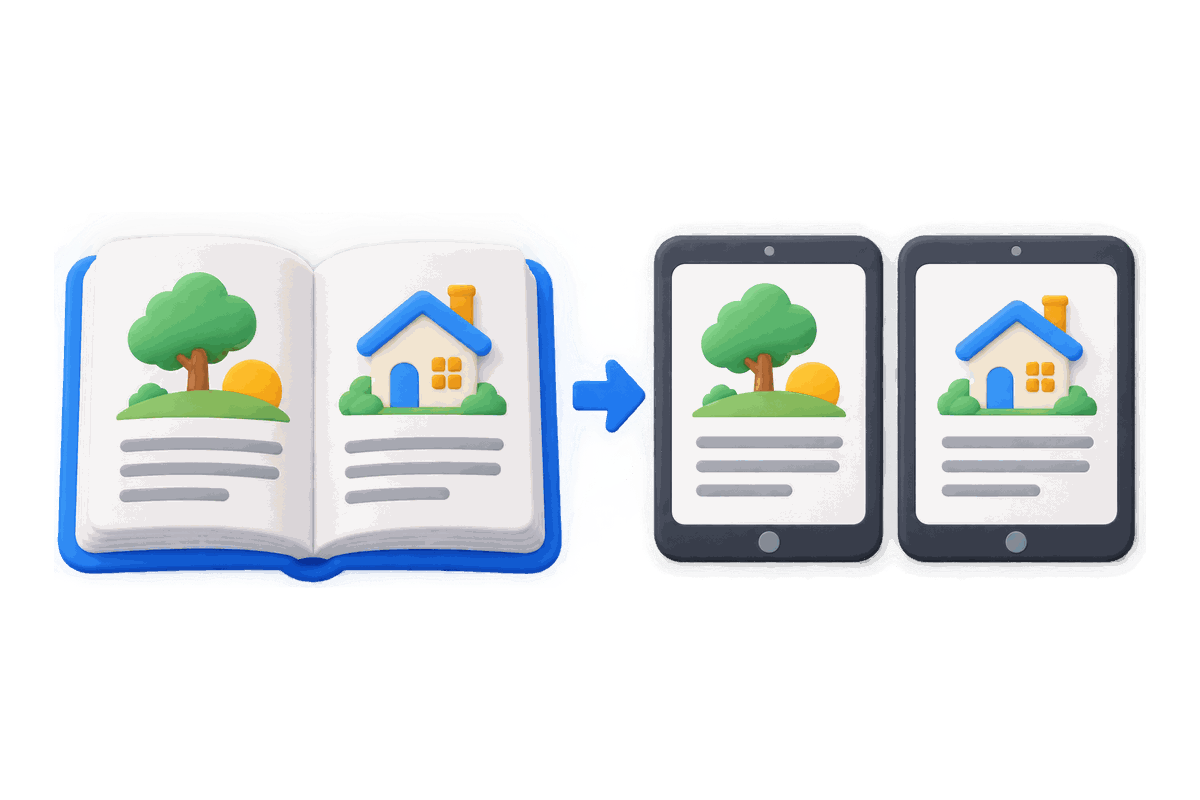
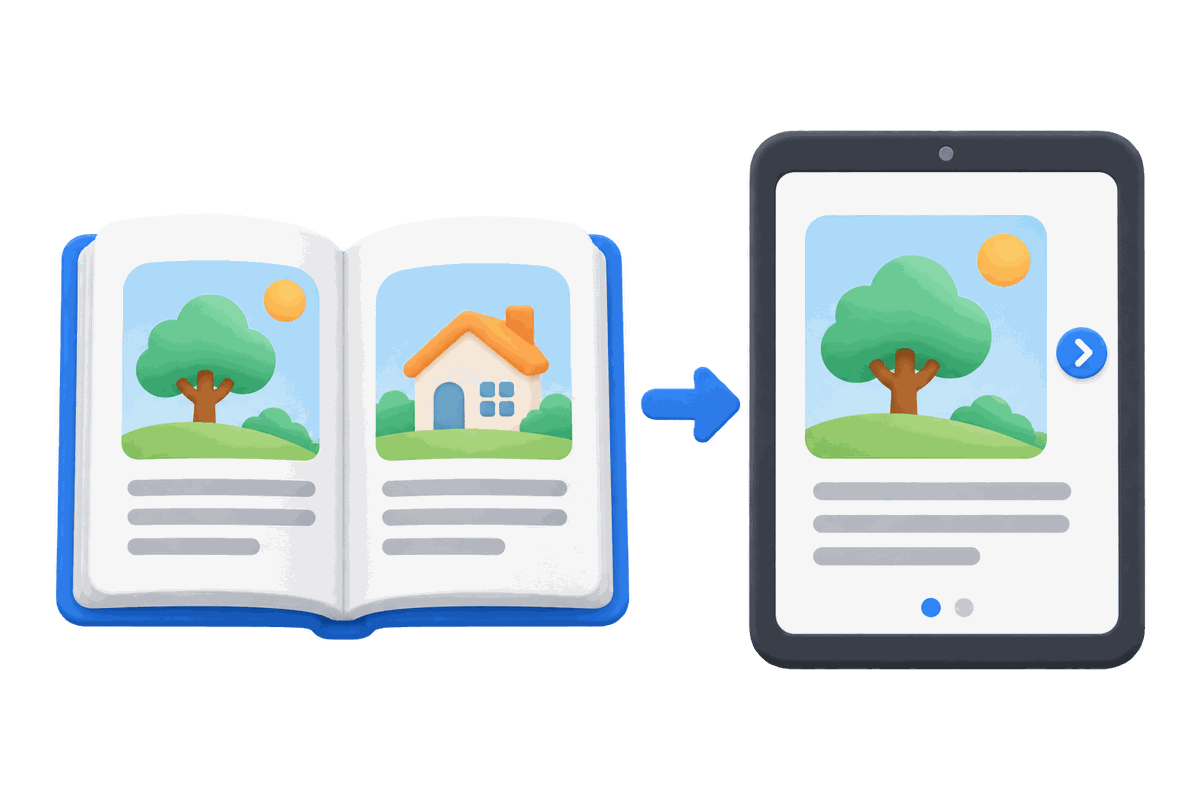
fix(add-book): the one-page-per-screen illustration shows one tablet turning through the pages (a next arrow and page dots) instead of two tablets, which read as two devices (#333)

diff --git a/apps/studio/public/add-book/README.md b/apps/studio/public/add-book/README.md
@@ -28,7 +28,7 @@ Language (same style and model, generated with the shared style above):
 
 Facing pages (same style and model; cropped to the subject, then fitted to 1200x800):
 
-- `grouping-single.png`: On the left an open picture book whose two facing pages are separate: the left page has its own small picture of a tree on a hill, the right page its own small picture of a little house, each with grey text lines under it. A blue arrow to the right. On the right two separate small tablets standing side by side, the first showing only the tree page, the second showing only the house page.
+- `grouping-single.png`: On the left an open picture book whose two facing pages are separate: the left page has its own small picture of a tree on a hill, the right page its own small picture of a little house, each with grey text lines under it. A blue arrow to the right. On the right ONE single tablet standing upright (portrait) that shows only the tree page filling its screen, with a small round blue next-arrow button on the right edge of the screen and two small page dots under the picture (the first one blue). Only one device, never two.
 - `grouping-spread.png`: On the left an open picture book with one big landscape illustration (green hills, a winding blue river, an amber sun) that runs across both facing pages, continuing over the middle fold, with a few grey text lines on it. A blue arrow to the right. On the right one wide landscape tablet showing that whole landscape illustration in one piece across its screen, with the grey text lines.
 - `grouping-facing.png` (the case in the Where I saw it dialog): On the left an open picture book where the left page has only a few grey text lines and the facing right page is filled with one picture of a fox in a meadow under a sun, the two pages clearly made to be seen together. A blue arrow to the right. On the right one wide landscape tablet showing both pages side by side: the text lines on its left half and the fox picture on its right half.
 - `grouping-wide.png` (same): On the left a single wide landscape sheet of paper with a small folded corner, like one page of a document file, that already shows an open book printed on it: two facing pages side by side, a picture of a tree on the left half and grey text lines on the right half, with a faint fold line down the middle. A blue arrow to the right. On the right one wide landscape tablet showing exactly that same sheet unchanged.
